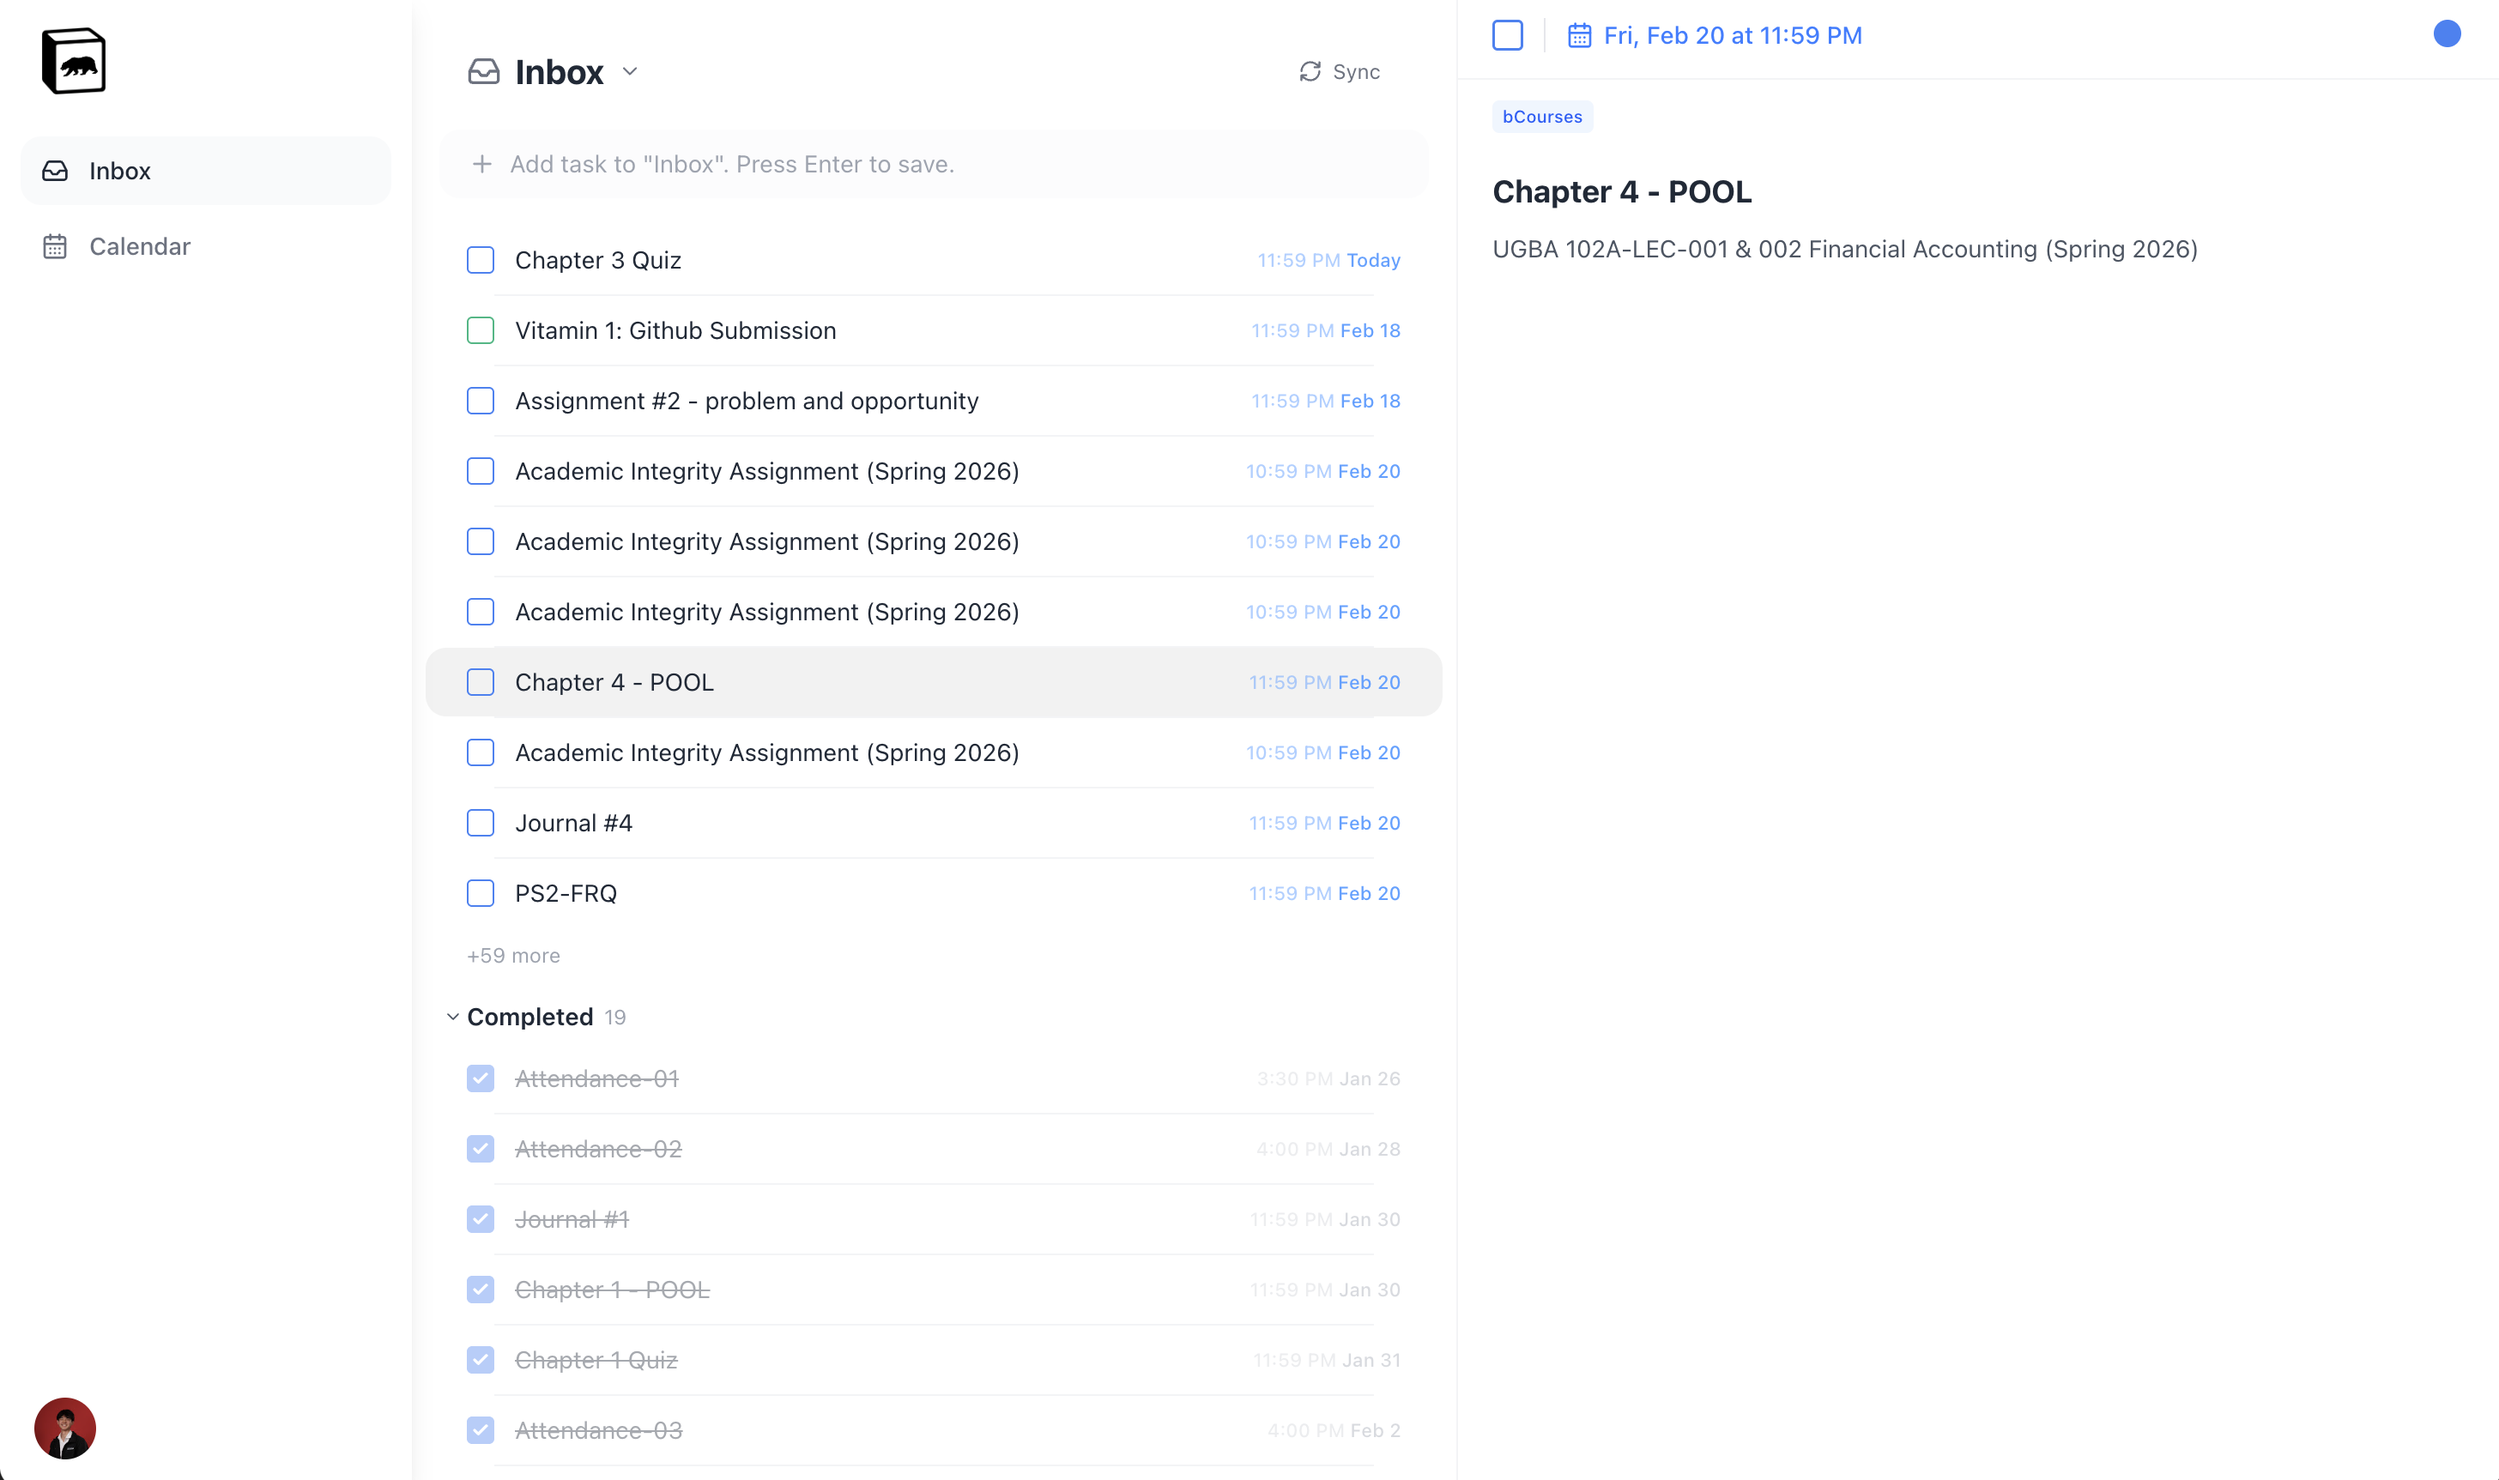
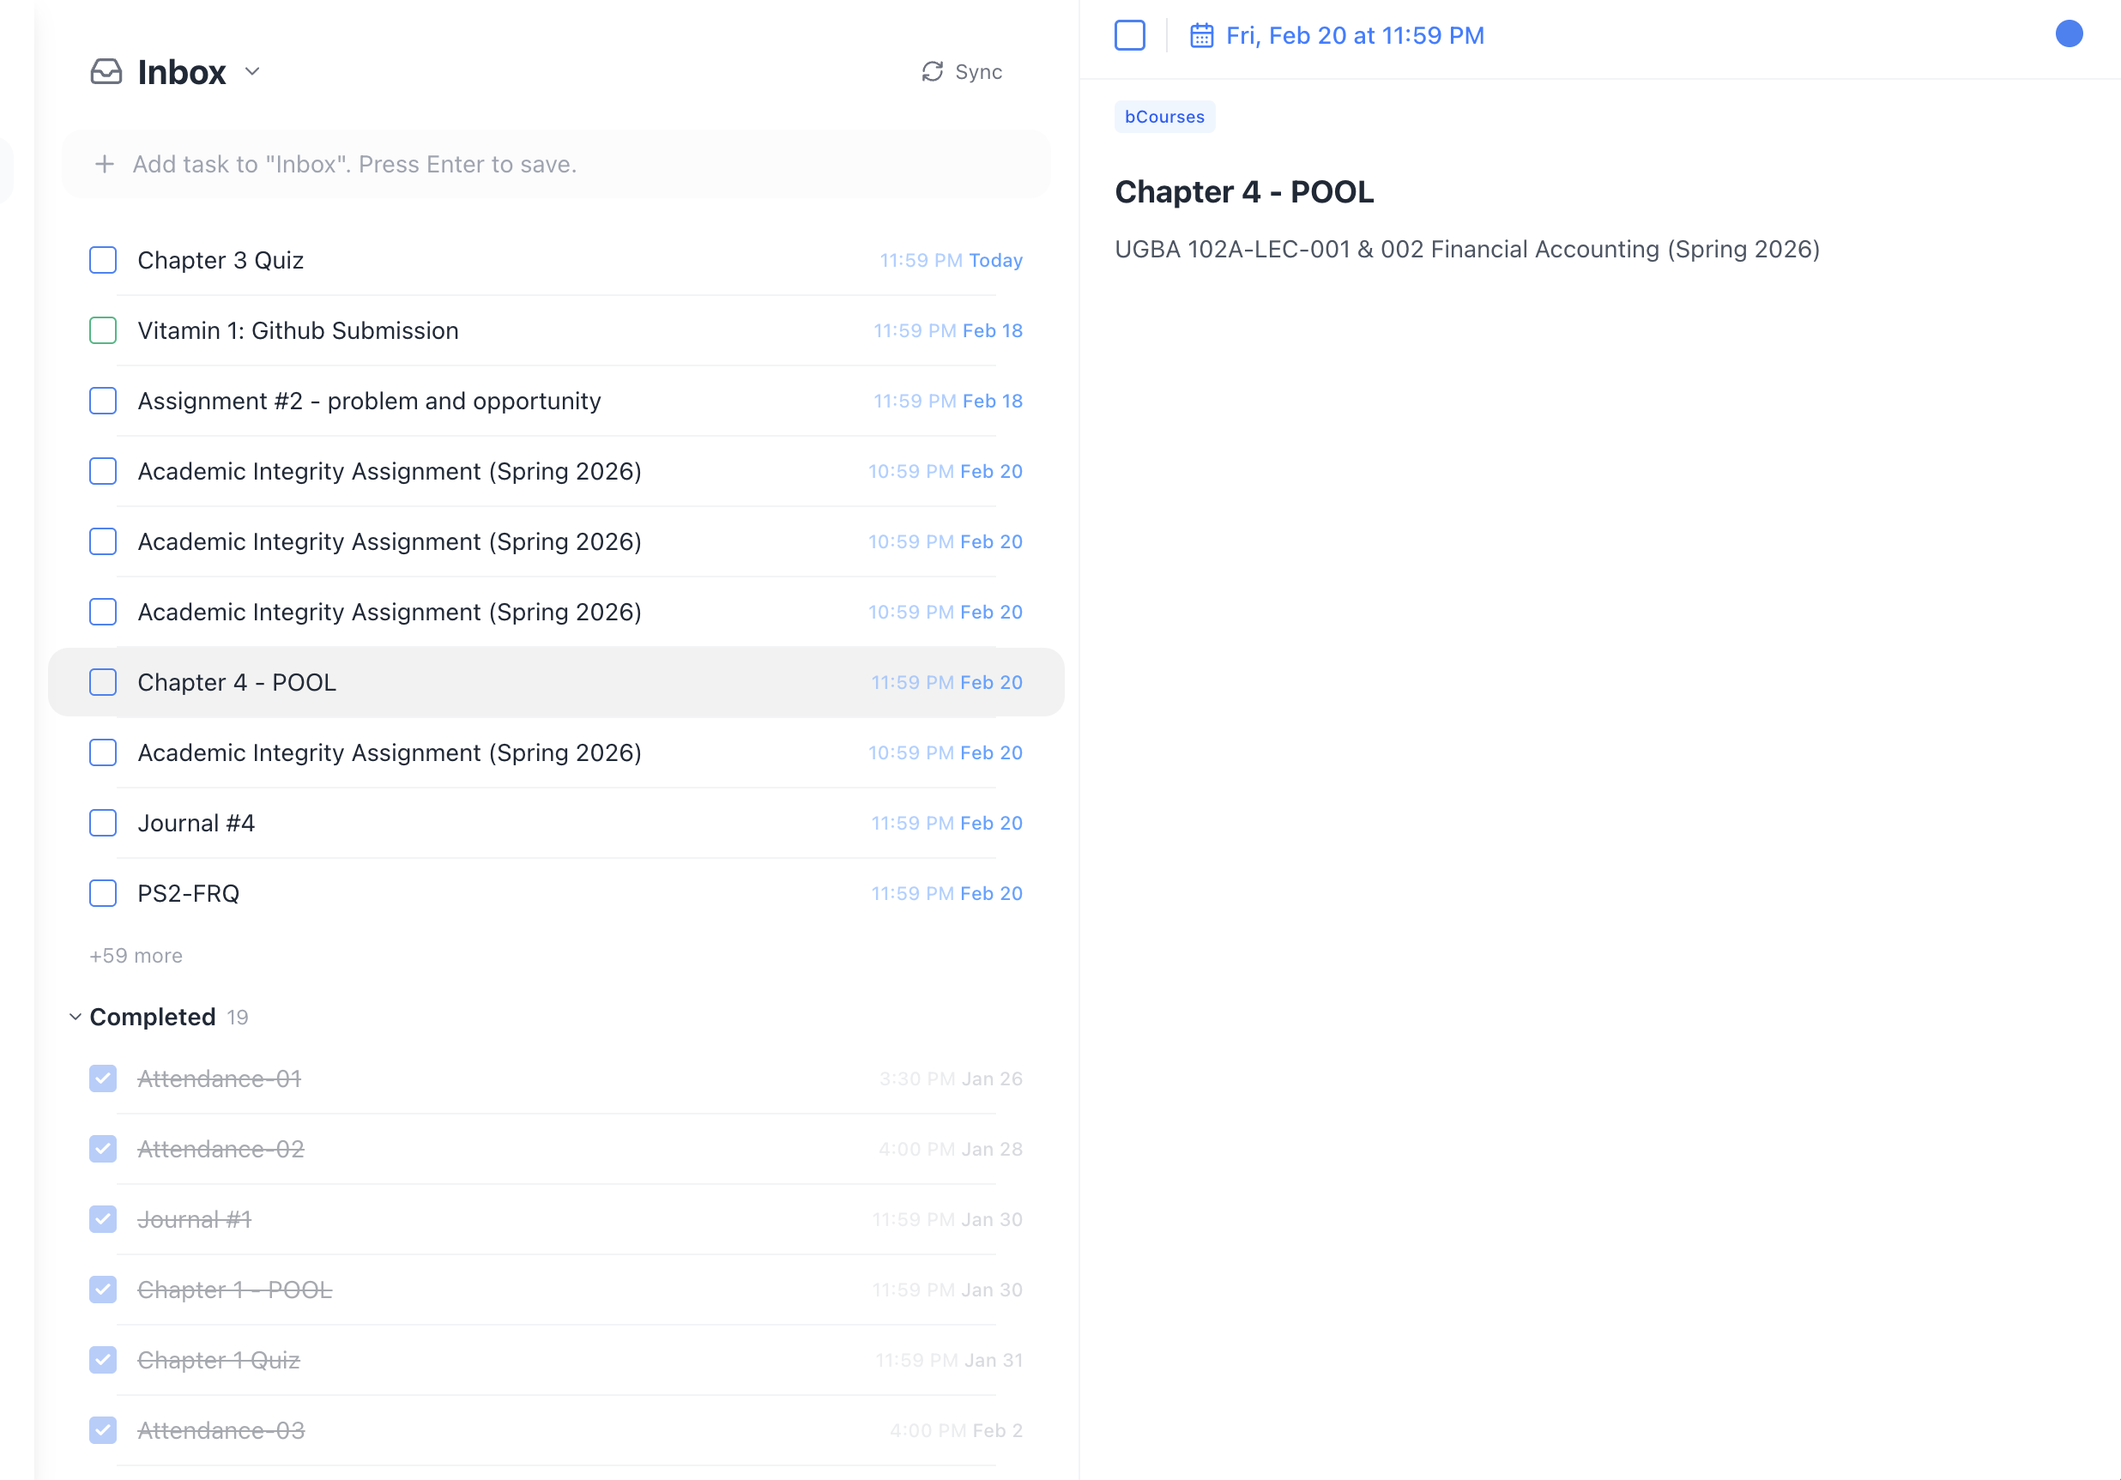
feat: add assignment submission links, crop hero screenshots
- Display "Open" link in task detail panel and calendar popover
  for synced assignments with source_url (Canvas/Gradescope)
- Crop sidebar from hero section screenshots for cleaner display

diff --git a/src/components/tasks/TaskDetailPanel.tsx b/src/components/tasks/TaskDetailPanel.tsx
@@ -1,7 +1,7 @@
 "use client";
 
 import { useState, useEffect, useRef } from "react";
-import { CalendarDays } from "lucide-react";
+import { CalendarDays, ExternalLink } from "lucide-react";
 import { format } from "date-fns";
 import type { Task, TaskUpdate } from "@/lib/types";
 import { TASK_COLORS } from "@/lib/constants";
@@ -216,7 +216,7 @@ export default function TaskDetailPanel({ task, onClose, onSave }: TaskDetailPan
             </div>
           </div>
 
-          {/* Source badge */}
+          {/* Source badge + submission link */}
           {(task.source || task.is_submitted) && (
             <div className="flex items-center gap-2 px-5 pt-3">
               {task.source && (
@@ -234,6 +234,17 @@ export default function TaskDetailPanel({ task, onClose, onSave }: TaskDetailPan
                 <span className="text-[10px] font-medium px-1.5 py-0.5 rounded text-green-600 bg-green-50 dark:bg-green-900/30">
                   Submitted
                 </span>
+              )}
+              {task.source_url && (
+                <a
+                  href={task.source_url}
+                  target="_blank"
+                  rel="noopener noreferrer"
+                  className="flex items-center gap-1 text-[10px] font-medium px-1.5 py-0.5 rounded text-muted-foreground hover:text-foreground bg-accent hover:bg-muted transition-colors"
+                >
+                  <ExternalLink size={10} />
+                  Open
+                </a>
               )}
             </div>
           )}

diff --git a/src/components/tasks/TaskPopover.tsx b/src/components/tasks/TaskPopover.tsx
@@ -2,7 +2,7 @@
 
 import { useState, useEffect, useRef, useCallback } from "react";
 import { createPortal } from "react-dom";
-import { CalendarDays, Trash2 } from "lucide-react";
+import { CalendarDays, Trash2, ExternalLink } from "lucide-react";
 import { format } from "date-fns";
 import type { Task, TaskUpdate } from "@/lib/types";
 import { TASK_COLORS } from "@/lib/constants";
@@ -290,6 +290,17 @@ export default function TaskPopover({ task, anchorRect, onClose, onSave, onDelet
               <span className="text-[10px] font-medium px-1.5 py-0.5 rounded text-green-600 bg-green-50 dark:bg-green-900/30">
                 Submitted
               </span>
+            )}
+            {task.source_url && (
+              <a
+                href={task.source_url}
+                target="_blank"
+                rel="noopener noreferrer"
+                className="flex items-center gap-1 text-[10px] font-medium px-1.5 py-0.5 rounded text-muted-foreground hover:text-foreground bg-accent hover:bg-muted transition-colors"
+              >
+                <ExternalLink size={10} />
+                Open
+              </a>
             )}
           </div>
         )}
